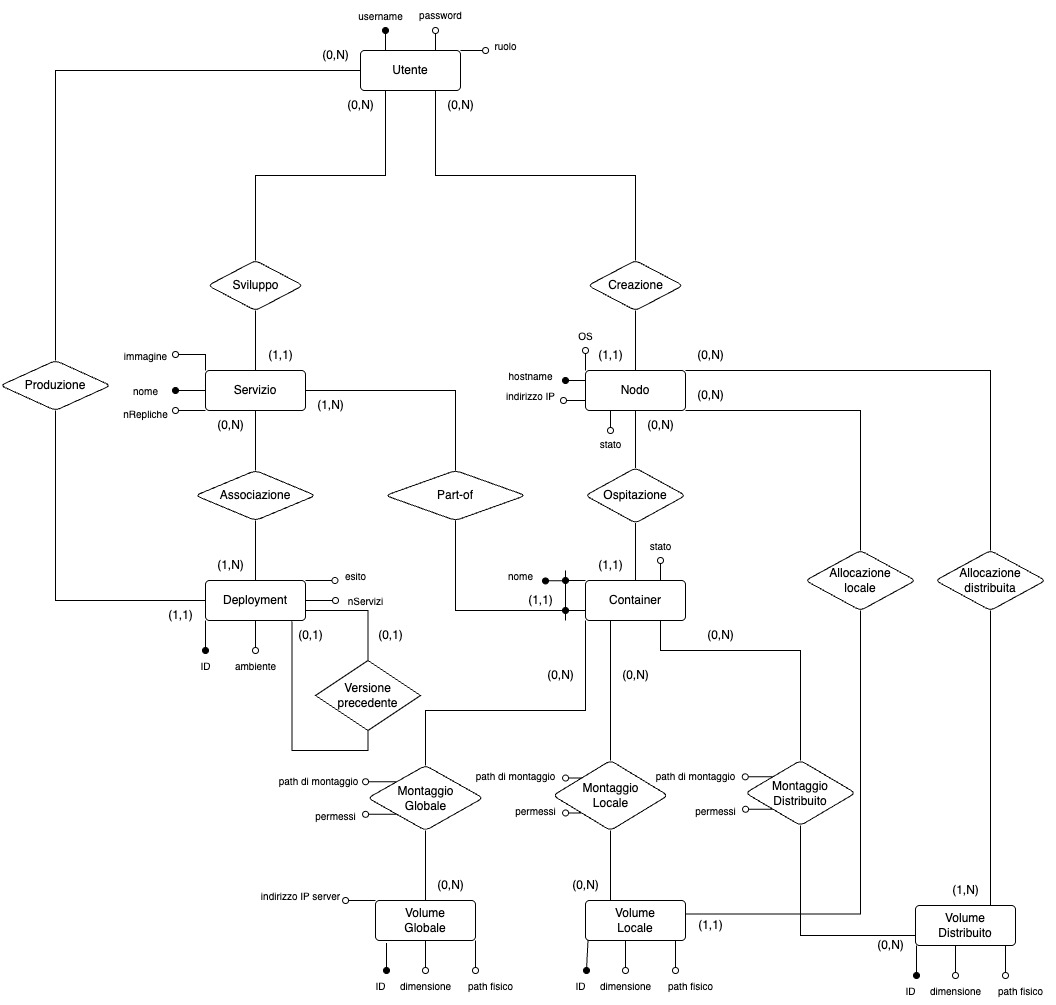
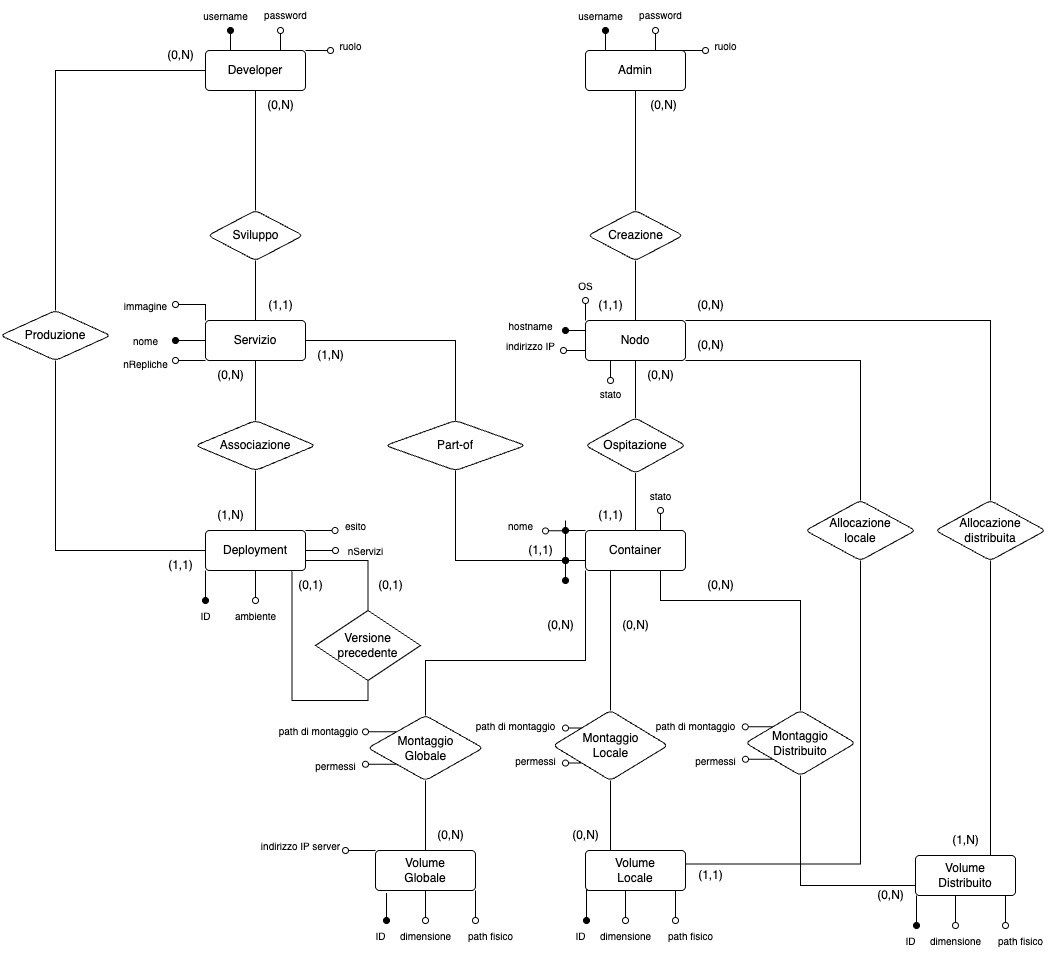
Refactor entity generalizations to eliminate redundancies and simplify relational model

diff --git a/bozza.md b/bozza.md
@@ -211,6 +211,24 @@ Inoltre consideriamo che vengono creati in media 3 deployment al giorno (dev, te
   Noi scegliamo di mantenerlo per semplificare le query ed evitare il calcolo del numero di servizi associati ad un deployment.
 
 #### Eliminazione delle generalizzazioni
+Le generalizzazioni descritte nello schema concettuale vengono ristrutturate con l'obiettivo di eliminare le ridondanze e semplificare il modello relazionale.
+Le due entità coinvolte sono:
+- **Utente**: la generalizzazione di utente in admin e developer è necessaria per la separazione dei privilegi, in quanto admin e developer hanno compiti diversi, ma convididono gli stessi attributi.
+Perciò si decide di partizionare l'entità *Utente* in *Admin* e *Developer* con lo scopo di minimizzare le ridondanze e mantenere i vincoli relativi ai privilegi del tipo di utente.
+Questa scelta aumenta il numero di tabelle, ma diminuisce il numero di attributi.
+Nel caso si fosse deciso di accorpare le due specializzazioni in un'unica entità, si sarebbe perso il vincolo dei privilegi per tipo di utente e si sarebbe dovuto aggiungere un attributo *Ruolo* per identificare il tipo di utente.
+È possibile fare questa scelta in quanto gli utenti admin e developer non hanno relazioni in comune.
+- **Volume**: la generalizzazione di volume in volume locale, globale e distribuito è necessaria per la distinzione logica dei volumi, in quanti i tre tipi di volume hanno relazioni e attributi diversi tra di loro.
+Perciò si decide di partizionare l'entità *Volume* in *VolumeLocale*, *VolumeGlobale* e *VolumeDistribuito* con lo scopo di separare i volumi in base alla loro tipologia e mantenere i vincoli relativi alla loro allocazione.
+Questa scelta, come nella precedente, aumenta il numero di tabelle, ma rende possibile l'implementazione di attributi e relazioni specifiche per ogni tipo di volume.
+Nel caso si fosse deciso di accorpare le tre specializzazioni in un'unica entità non sarebbe stato possibile implementare le relazioni specifiche per ogni tipo di volume, inoltre l'attributo *IndirizzoIPServer* sarebbe stato nullo per i volumi locali e distribuiti, rendendo il modello meno chiaro e meno efficiente.
+
+
+
+
+
+
+
 ![Progettazione concettuale](/assets/ER_Refurbished.jpg)
 #### Schema relazionale
 - **Utente**(<u>Username</u>, Password, Ruolo)
